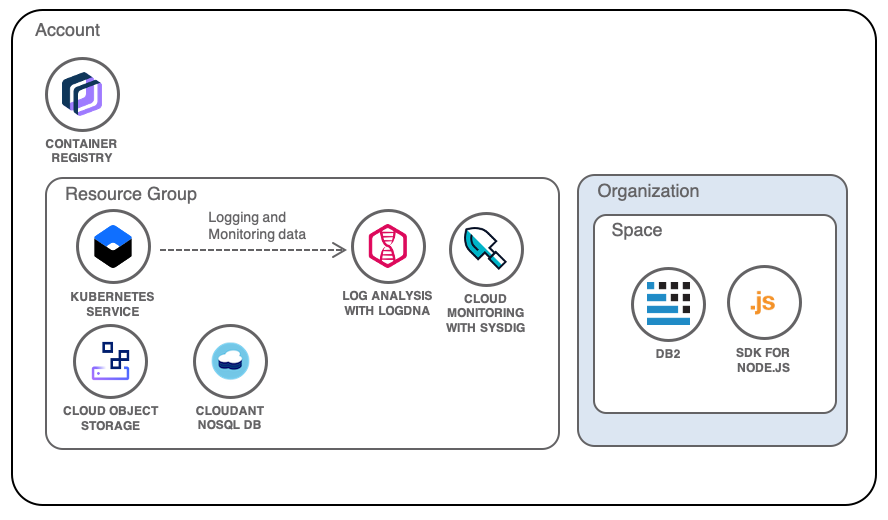
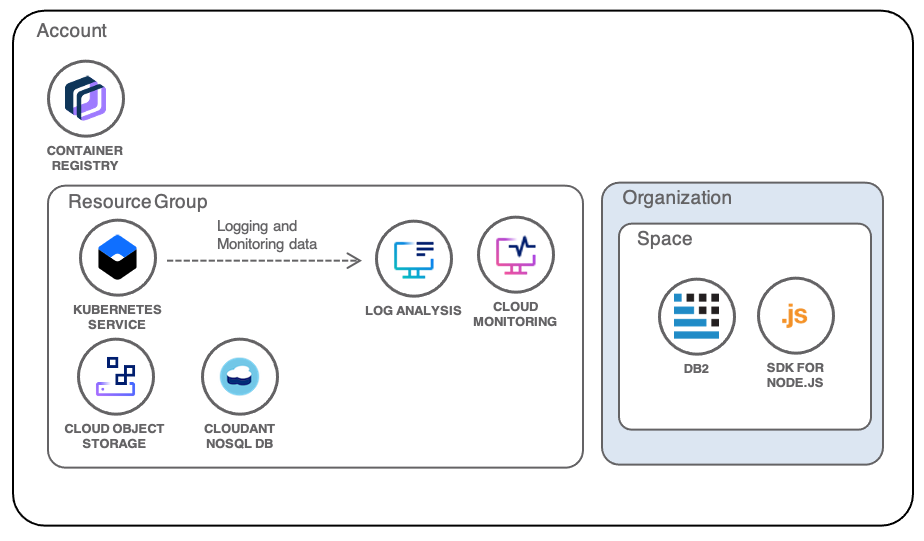
Updated Logging and monitoring diagrams/drawio

diff --git a/application-log-analysis.md b/application-log-analysis.md
@@ -2,7 +2,7 @@
 subcollection: solution-tutorials
 copyright:
   years: 2017, 2019, 2020, 2021
-lastupdated: "2021-03-30"
+lastupdated: "2021-04-26"
 lasttested: "2020-12-22"
 
 content-type: tutorial

diff --git a/plan-create-update-deployments.md b/plan-create-update-deployments.md
@@ -2,7 +2,7 @@
 subcollection: solution-tutorials
 copyright:
   years: 2018, 2019, 2020, 2021
-lastupdated: "2021-03-30"
+lastupdated: "2021-04-26"
 lasttested: "2020-11-30"
 
 content-type: tutorial

diff --git a/openshift-microservices.md b/openshift-microservices.md
@@ -2,7 +2,7 @@
 subcollection: solution-tutorials
 copyright:
   years: 2020, 2021
-lastupdated: "2021-03-30"
+lastupdated: "2021-04-26"
 lasttested: "2021-03-15"
 
 content-type: tutorial
